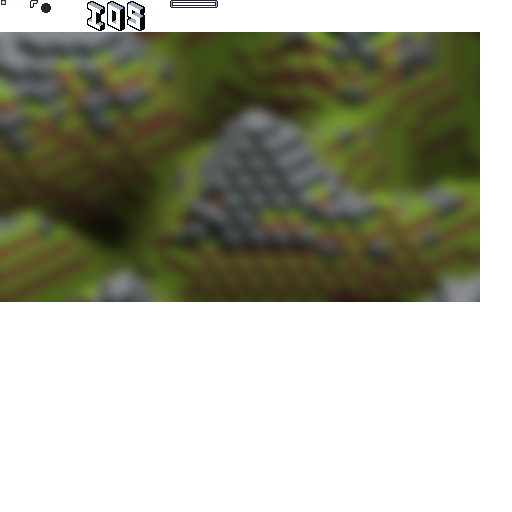
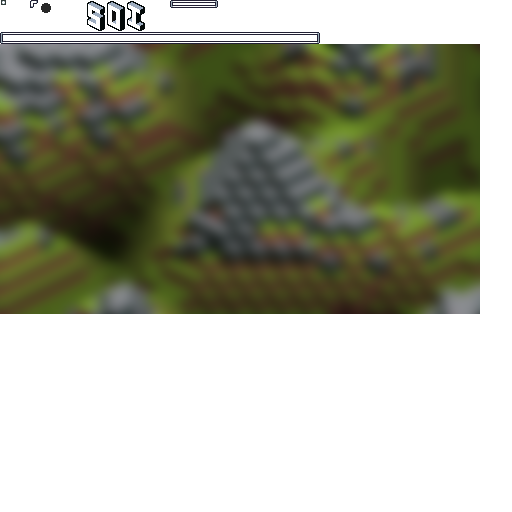
[Add] BossInterface

diff --git a/Assets/Project-Isometric/Interface/BossInterface.cs b/Assets/Project-Isometric/Interface/BossInterface.cs
@@ -1,0 +1,45 @@
+using UnityEngine;
+
+namespace Isometric.Interface
+{
+    public class BossInterface : MenuFlow
+    {
+        private EntityCreature _owner;
+
+        private FSprite _bar;
+        private FSprite _barCase;
+
+        private FContainer _barContainer;
+
+        private float _lastLength;
+
+        public BossInterface(EntityCreature owner) : base()
+        {
+            _owner = owner;
+
+            _bar = new FSprite("uipixel");
+            _bar.scaleY = 8f;
+
+            _barCase = new FSprite("bosshealth");
+
+            _barContainer = new FContainer();
+            _barContainer.SetPosition(0f, MenuFlow.screenHeight * 0.5f - 16f);
+
+            _barContainer.AddChild(_bar);
+            _barContainer.AddChild(_barCase);
+
+            container.AddChild(_barContainer);
+        }
+
+        public override void Update(float deltaTime)
+        {
+            _lastLength = Mathf.Lerp(_lastLength, _owner.health / _owner.maxHealth, deltaTime * 10f);
+
+            _bar.x = _lastLength * 160f - 160f;
+            _bar.scaleX = _lastLength * 320f;
+            _bar.color = Color.Lerp(Color.red, new Color32(0xAC, 0xEF, 0x2A, 0xFF), _lastLength);
+
+            base.Update(deltaTime);
+        }
+    }
+}

diff --git a/Assets/Project-Isometric/IsometricGame/Entity/EntityBoss.cs b/Assets/Project-Isometric/IsometricGame/Entity/EntityBoss.cs
@@ -1,10 +1,13 @@
 using System;
 using System.Collections.Generic;
 using UnityEngine;
+using Isometric.Interface;
 using Custom;
 
 public class EntityBoss : EntityCreature
 {
+    private BossInterface _bossInterface;
+
     private Player _player;
 
     private const int RuneNum = 8;
@@ -15,6 +18,8 @@ public class EntityBoss : EntityCreature
 
     public EntityBoss() : base(1f, 2f, 500f)
     {
+        _bossInterface = new BossInterface(this);
+
         _runes = new List<EntityBossRune>[RuneStateNum];
         for (int i = 0; i < RuneStateNum; i++)
             _runes[i] = new List<EntityBossRune>();
@@ -40,6 +45,15 @@ public class EntityBoss : EntityCreature
 
         SetAttackPattern(AllocateRunes, 3f);
         _entityParts[1].worldPosition = worldPosition;
+
+        game.AddSubLoopFlow(_bossInterface);
+    }
+
+    public override void OnDespawn()
+    {
+        _bossInterface.Terminate();
+
+        base.OnDespawn();
     }
 
     public override void Update(float deltaTime)
